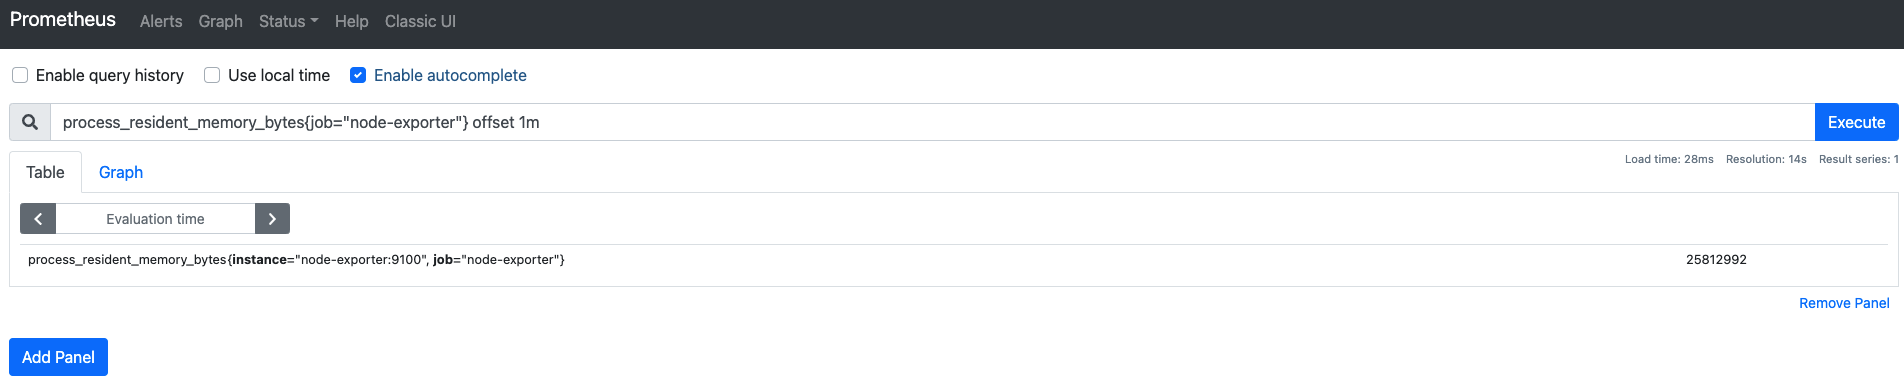
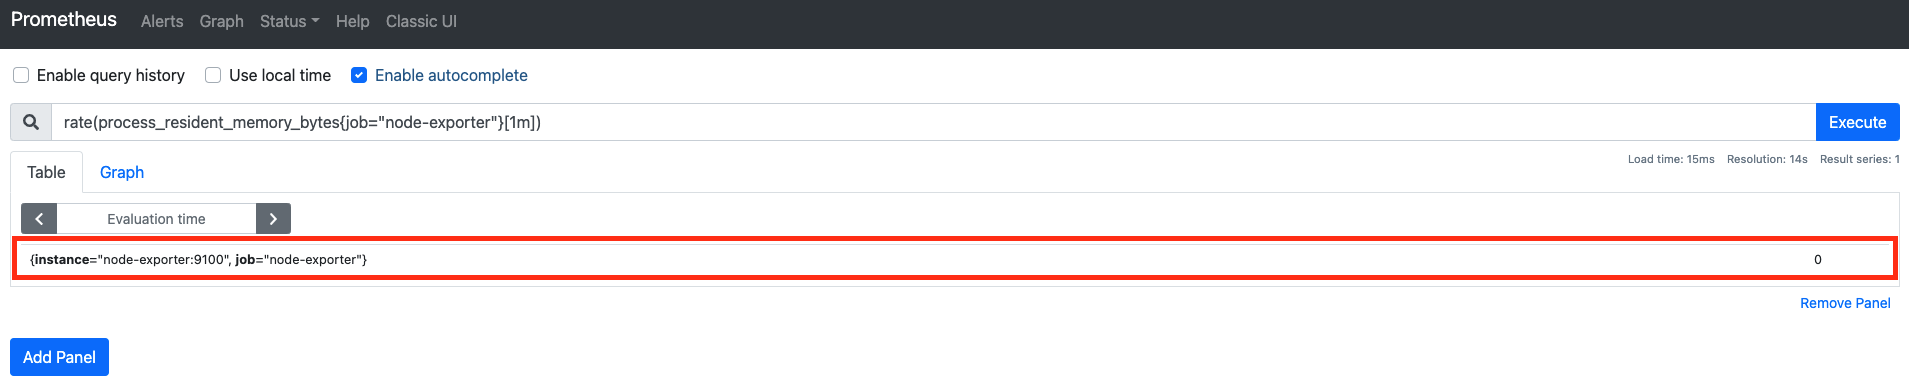
docs: Update 05_prometheus_query_01.md

diff --git a/gurumee-note/monitoring/prometheus/part1/05_prometheus_query_01/05_prometheus_query_01.md b/gurumee-note/monitoring/prometheus/part1/05_prometheus_query_01/05_prometheus_query_01.md
@@ -91,7 +91,31 @@ process_resident_memory_bytes{job="node-exporter"}
 
 ## 5.4 Range Vector
 
+`Range Vector`는 쿼리 시점까지 `Time Duration`에 대해 일치하는 모든 시계열을 가지고 있다. 간단하게 말하면 `Instant Vector`에 `[]`라는 `Range Vector Selector`를 사용한 데이터라고 보면 된다. 다음을 쿼리해보자.
+
+```
+process_resident_memory_bytes{job="node-exporter"}[1m]
+```
+
+쿼리 결과는 다음과 같다.
+
 ![06](./06.png)
+
+이는 `Instant Vector`인 `process_resident_memory_bytes{job="node-exporter"}`를 쿼리한 시점 1분까지의 모든 시계열을 가지는 `Range Vector`를 반환한다. 오른쪽 값을 보면 12개가 나오는데, 이는 5초 주기로 `Prometheus`가 `node-exporter`를 통해서 데이터를 수집하기 때문이다. 사실 `Range Vector` 타입 혼자서 쓰이지는 않고 보통은 `rate()` 함수랑 같이 쓰인다. 다음을 쿼리해보자.
+
+```
+rate(process_resident_memory_bytes{job="node-exporter"}[1m])
+```
+
+쿼리 결과는 다음과 같다.
+
+![07](./07.png)
+
+타입에 메트릭 이름이 빠진 것 말고는 뭐가 바뀐지 잘 모르겠다. 한 번 Graph 탭을 눌러보자. 
+
+![08](./08.png)
+
+그렇다. `rate()` 함수는 `Range Vector`를 `Instant Vector`로 바꿔주는 역할을 한다. 정확하게는 `process_resident_memory_bytes{job="node-exporter"}[1m]`의 초당 평균 값을 보여준다.
 
 ## 5.5 Time Duration과 Offset
 
@@ -113,7 +137,7 @@ process_resident_memory_bytes{job="node-exporter"} offset 1m
 
 쿼리 결과는 다음과 같다.
 
-![07](./07.png)
+![08](./08.png)
 
 `offset 1m`을 제거하면 다른 데이터가 보이는 것을 확인할 수 있다. `Time Duration`과 `offset`을 사용할 때는 주의할 점이 크게 2가지가 있다.
 
